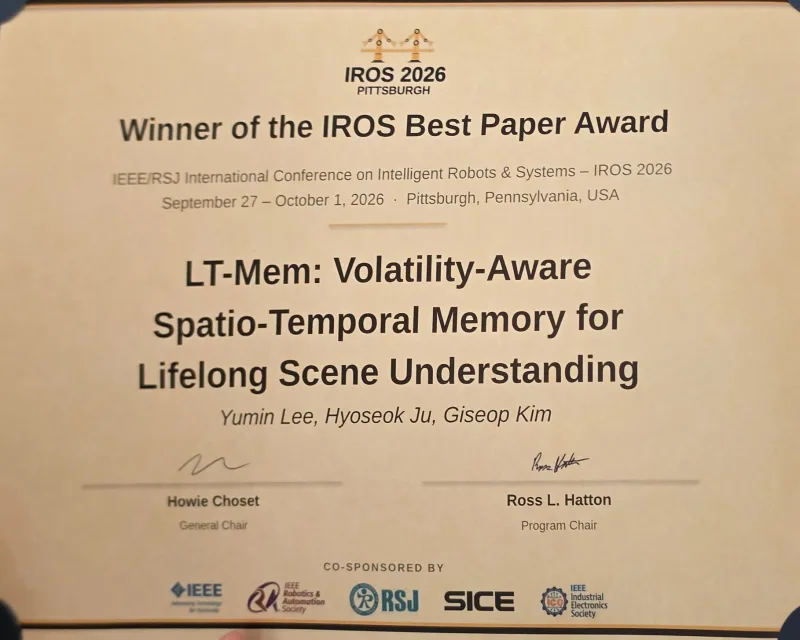
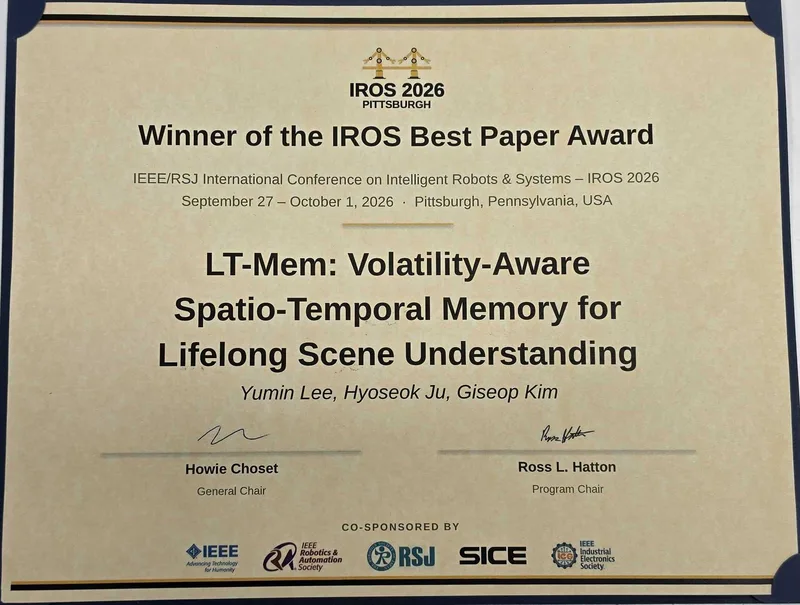
Sync gallery award certificate thumbnail with updated photo

diff --git a/gallery.html b/gallery.html
@@ -24,7 +24,7 @@ extra_scripts:
           <figure class="gallery-carousel" id="iros2026-best-paper-award">
             <div class="gallery-carousel-stage">
               <a class="gallery-carousel-slide is-active" href="assets/gallery/previews/gallery-2026-09-27-10-01-iros2026-best1.webp"><img src="assets/gallery/thumbs/gallery-2026-09-27-10-01-iros2026-best1.webp" alt="IROS 2026 Best Paper Award ceremony" width="800" height="450" loading="eager" fetchpriority="high" decoding="async" /></a>
-              <a class="gallery-carousel-slide" href="assets/news/lt-mem-iros2026-best-paper-certificate-preview.webp"><img src="assets/gallery/thumbs/lt-mem-iros2026-best-paper-certificate.webp" alt="LT-Mem IROS 2026 Best Paper Award certificate" width="800" height="640" loading="lazy" decoding="async" /></a>
+              <a class="gallery-carousel-slide" href="assets/news/lt-mem-iros2026-best-paper-certificate-preview.webp"><img src="assets/gallery/thumbs/lt-mem-iros2026-best-paper-certificate.webp" alt="LT-Mem IROS 2026 Best Paper Award certificate" width="800" height="605" loading="lazy" decoding="async" /></a>
               <a class="gallery-carousel-slide" href="assets/gallery/previews/gallery-2026-09-27-10-01-iros2026-best2.webp"><img src="assets/gallery/thumbs/gallery-2026-09-27-10-01-iros2026-best2.webp" alt="APRL members with the award certificate" width="800" height="1067" loading="lazy" decoding="async" /></a>
               <button class="gallery-carousel-button gallery-carousel-prev" type="button" aria-label="Previous photo">&lsaquo;</button>
               <button class="gallery-carousel-button gallery-carousel-next" type="button" aria-label="Next photo">&rsaquo;</button>
